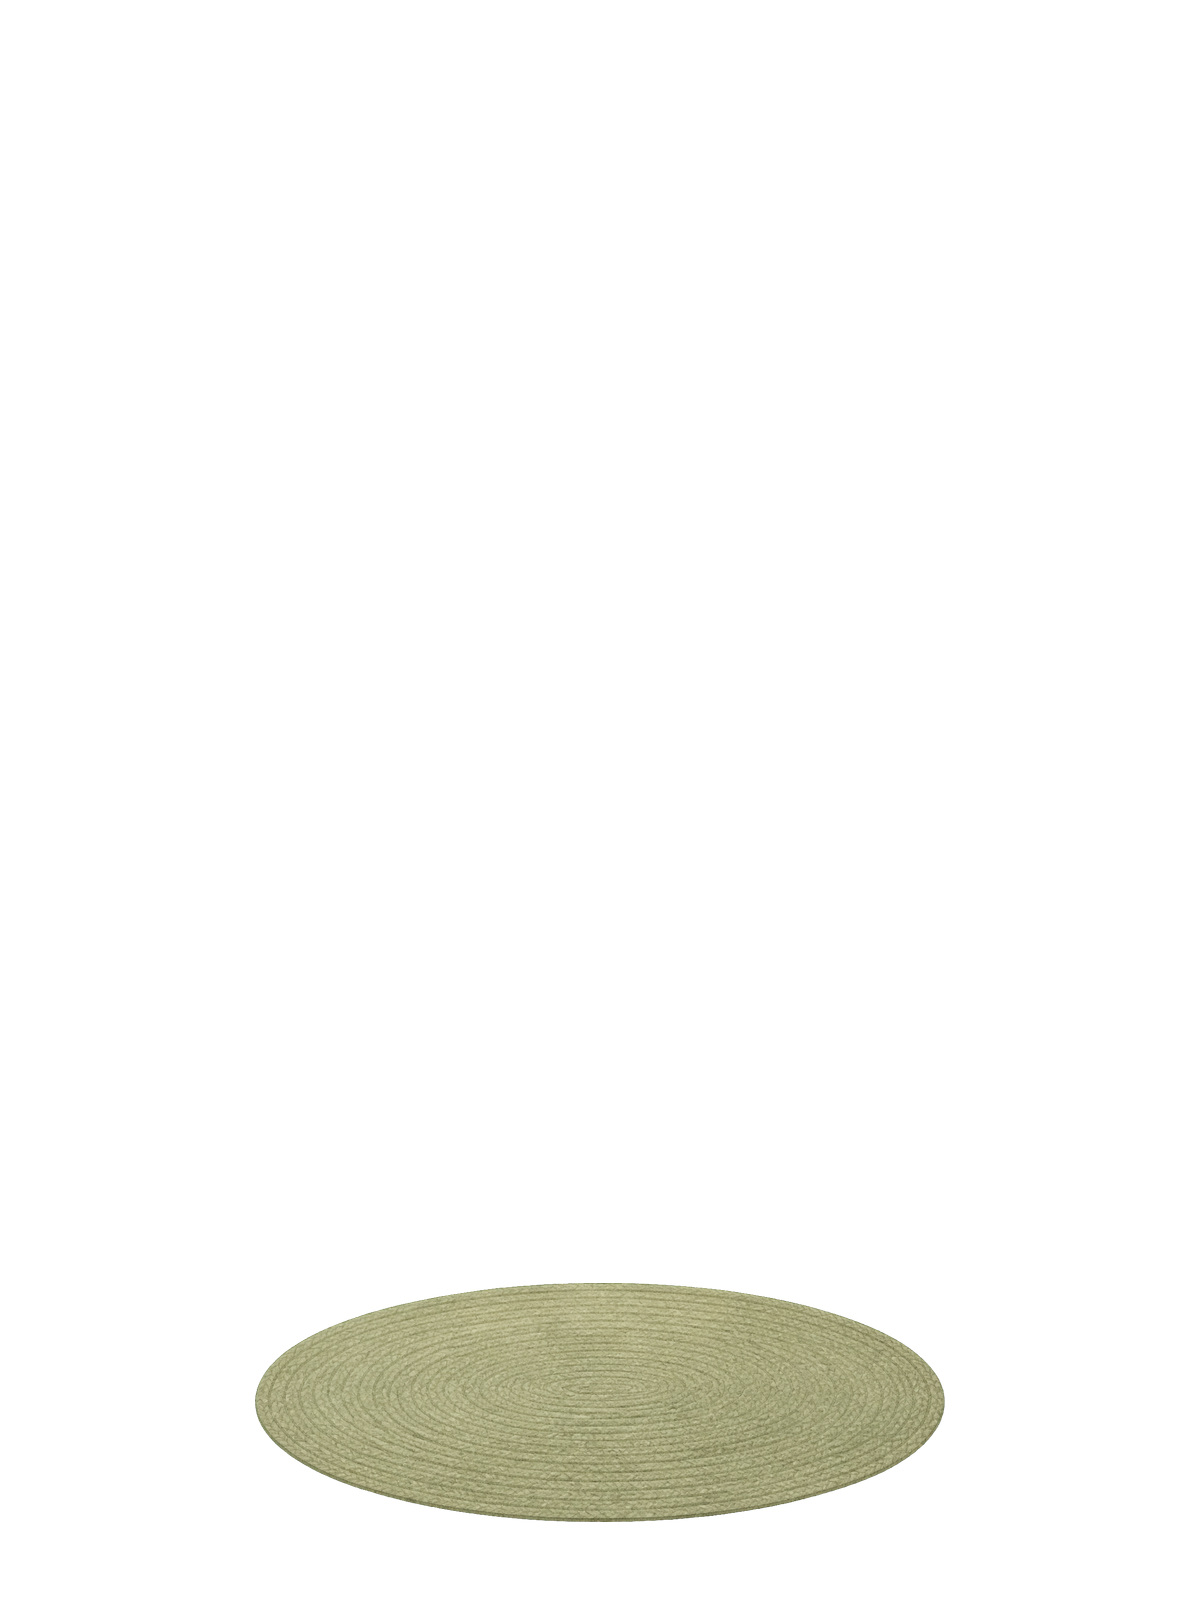
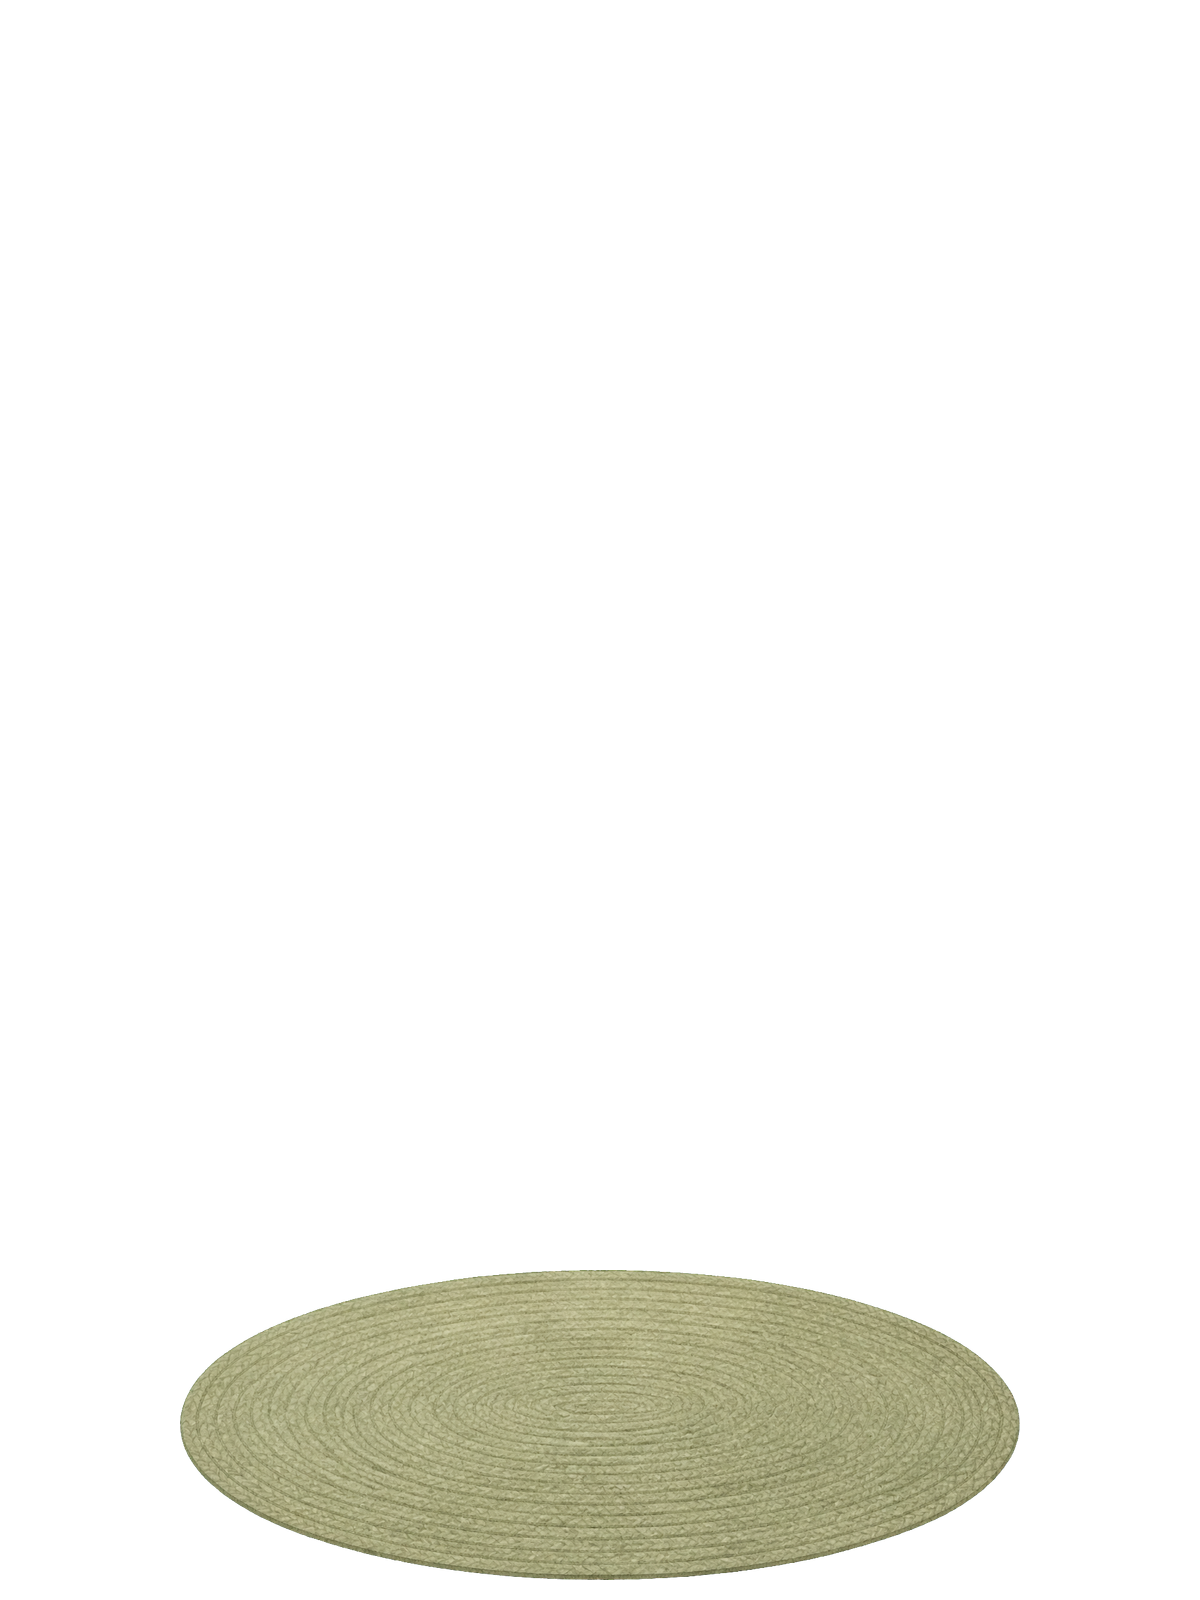
Converge dressed-room layouts on the approved concept composites
Compare each dressed v02 against the signed-off concept art and close the
gaps via LAYOUT_TUNING boxes (v03 freeze input): enlarge all three rugs to
concept proportions, replace B's low sideboard with a tall 2x2 rattan
dresser grounded on the skirting line, enlarge plants (B's clears the
postcard frames), shorten A/B scratchers, and move F's scratcher and
feeding set onto the raised platform per the concept.

Changed region(s): [[0.1542, 0.7812, 0.8633, 1.0]]

diff --git a/docs/art/candidates/home-theme-prototypes/2026-08-13/production/README.md b/docs/art/candidates/home-theme-prototypes/2026-08-13/production/README.md
@@ -160,6 +160,26 @@ feeding-set → plant → **六张明信片**（6 张外景母版裁片按 slot 
 （`apps/web/public/assets/`、`dev-art/home-v4/cat-animations/`），
 仅作合层证据，不固化进任何部件。
 
+## 布局调优轮（对照签收效果图收敛）
+
+以 `approved-direction/composites/` 三张签收效果图为基准逐套对比
+dressed v02，装配脚本内新增 `LAYOUT_TUNING` 调优 box（覆盖冻结
+socket region，数值即 v03 几何冻结输入）：
+
+- **主地毯**：三套均放大到效果图比例（占地面宽 65–70%），并 fill
+  拉伸到更饱满的椭圆比（A 840×310、B 780×300、F 800×330）。
+- **B 柜重制**：v01 长矮柜（380×154）形制与效果图不符且贴墙悬浮，
+  以 `source--cabinet--imagegen-v02.png`（高身 2×2 藤编面胡桃斗柜，
+  近方形）重制为 380×355，底边压到近端墙脚线 y1235；朝向自带
+  侧板朝右/顶面向左上收，无需翻转。
+- **植物**：三套放大到效果图比例（约 15% 画高），底部仍锚实际柜顶；
+  B 植物右移贴斗柜右端（x1085），让出右下 postcard 框。
+- **爬架**：A/B 比效果图高大，收矮至 440/430 并前移落地；
+  **F 按效果图移上抬高平台**（底边 y975，平台前沿左端 y990）。
+- **F 碗垫组按效果图移上平台**（底边 y990、x390–620，避开
+  x300–405 的 treat 锚点）；「eat 低层」cat zone 判定随 v03 冻结
+  改为平台。
+
 ## Exterior 视差行程 QA（联动 home-exteriors 试点）
 
 江湾与静海湾母版 v03（按新规格重制，地平线实测均 y 580 ∈ 520–640 带，

diff --git a/docs/art/candidates/home-theme-prototypes/2026-08-13/art-production-status.md b/docs/art/candidates/home-theme-prototypes/2026-08-13/art-production-status.md
@@ -248,6 +248,13 @@ production 未就绪**。
    `production/qa--dressed-room--overview--v02.png`。全部仍为候选，
    `runtimeEligible=false`。已知残债：B 矮柜偏薄、贴墙读感略悬浮；
    plant/souvenir 冻结锚点的柜顶假设偏高，待 v03 冻结吸收实测柜顶。
+   **更新（2026-08-13 夜·布局调优轮）：**以签收效果图为基准收敛
+   dressed v02：三套 rug 放大到效果图比例并 fill 拉伸；B 柜以高身
+   2×2 藤编斗柜 source v02 重制（长矮柜残债清偿，底边压墙脚线）；
+   植物三套放大、B 植物让出画架；A/B 爬架收矮、F 爬架与碗组按
+   效果图移上平台。全部调优数值收敛在装配脚本 `LAYOUT_TUNING`，
+   是 v03 冻结输入；证据仍看 `qa--dressed-room--v02.png` 三张与
+   总览条。
 5. 每件先交 base，再交必要的 foreground occlusion，并同时提交锚点与
    support/exclusion 视觉 QA 图；缺任一项不得上架。
 6. 最后才做真实猫、六张明信片、三类纪念品和 Treat 的叠层验收；通过前
